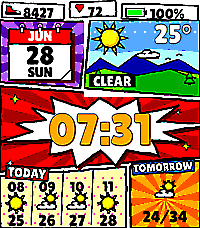
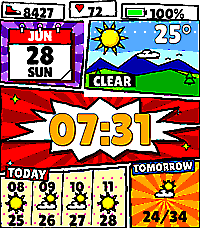
Keep the starburst inside the action band
Bottom spikes were crossing the gutter onto the TODAY panel and the caption
was biting into the red band, reading as tiles overlapping the time tile.
Burst spikes are now shortened radially to slant-aware bounds that follow
the band's edges (with margin for the drop shadow), and the TODAY caption
is pinned on the panel border, clear of both the band and the hour labels.

diff --git a/comic_weather_hr_watchface/tools/preview.py b/comic_weather_hr_watchface/tools/preview.py
@@ -478,20 +478,19 @@ def band_art(im, d):
     sparkle(d, 10, 163, 3.4, C['white'], seed=126)
 
 def burst_art(im, d):
-    # The starburst is drawn AFTER every panel so its spikes overlap the gutters
-    # and borders (classic comic layering). Spikes that would reach the scene
-    # blit rect (would be painted over) or dynamic text zones are shortened
-    # RADIALLY, so they stay pointy instead of getting a flat clamp.
+    # Spikes that would leave the action band are shortened RADIALLY (staying
+    # pointy, no flat clamp) so the burst fills its wedge edge-to-edge without
+    # spilling onto the calendar / scene / forecast tiles. Bounds follow the
+    # band's slanted edges (y = 86+0.075x top, 172-0.075x bottom) with a 2px
+    # margin, plus 3px at the bottom for the burst's drop shadow.
     cx, cy = 100, 129
     bp = []
-    for (px, py) in burst_pts(cx, cy, 101, 40, 68, 22, n=13, seed=9):
-        if py < cy:
-            bound = 98 if px > 74 else 84
-        else:
-            bound = 155 if px > 118 else 174
-        if (py < cy and py < bound) or (py > cy and py > bound):
-            t = (bound - cy) / (py - cy)
-            px, py = cx + (px - cx) * t, float(bound)
+    for (px, py) in burst_pts(cx, cy, 101, 37, 68, 22, n=13, seed=9):
+        for _ in range(2):  # bound depends on x, which moves when rescaling
+            bound = (88 + 0.075 * px) if py < cy else (167 - 0.075 * px)
+            if (py < cy and py < bound) or (py > cy and py > bound):
+                t = (bound - cy) / (py - cy)
+                px, py = cx + (px - cx) * t, float(bound)
         bp.append((px, py))
     d.polygon([xy((x + 2.5, y + 3)) for (x, y) in bp], fill=C['red_dk'])
     wpoly(d, bp, C['white'], C['ink'], 2.3, amp=0.6, seed=121)
@@ -508,8 +507,9 @@ def bottom_panels(im, d):
     wpoly(d, TMRW_POLY, None, C['ink'], 2.2, amp=0.5, seed=134)
 
 def captions_art(im):
-    # pasted last: captions sit on top of panels AND any burst tips underneath
-    caption(im, 27, 173, 42, 13, 'TODAY', F_CAP12, C['red'], tilt=-4.0, seed=135)
+    # pasted last; captions straddle their panel's top border and the gutter,
+    # but stay clear of the action band above
+    caption(im, 27, 173.5, 42, 12, 'TODAY', F_CAP12, C['red'], tilt=-4.0, seed=135)
     caption(im, 163, 167, 62, 12, 'TOMORROW', F_CAP10, C['blue'], tilt=3.0, seed=136)
 
 def base_layout():
